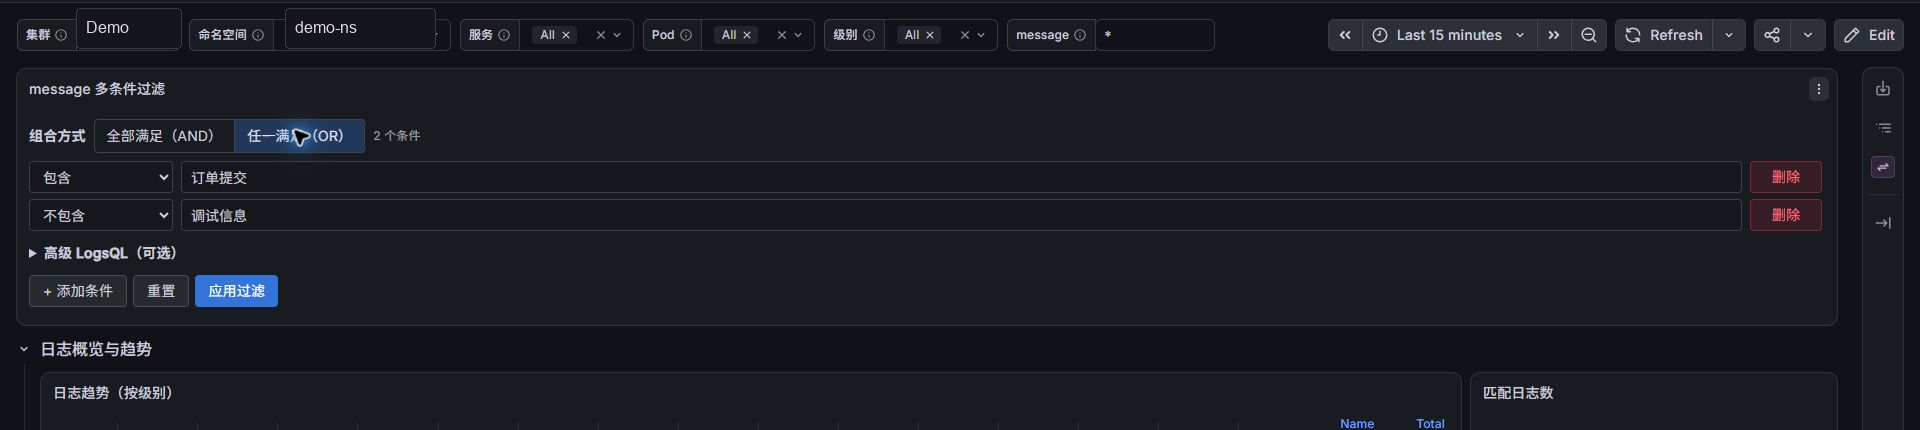
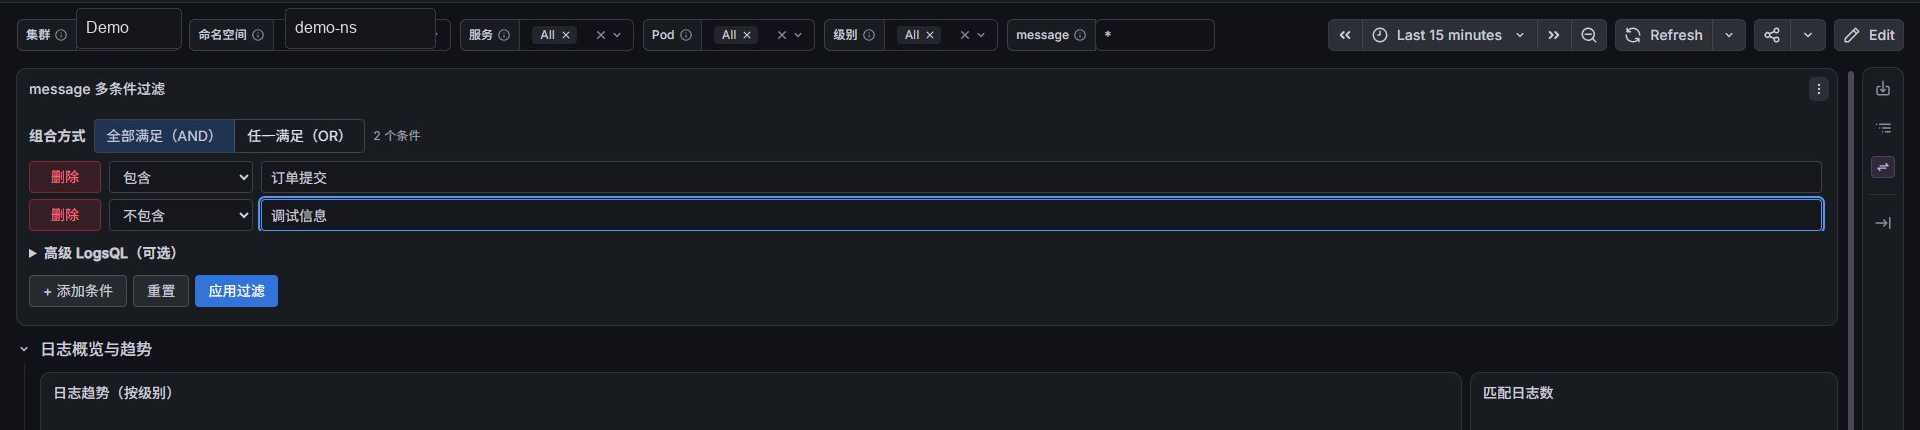
fix: refresh message filters against latest time range

Changed region(s): [[0.0, 0.2721, 0.9688, 0.5442], [0.6875, 0.9674, 0.75, 0.9977]]

diff --git a/docs/grafana-victorialogs-log-search-dashboard-guide.md b/docs/grafana-victorialogs-log-search-dashboard-guide.md
@@ -167,7 +167,7 @@ ${message_filter_expr:raw}
 
 ### 5.5 多条件 message 过滤器
 
-点击“添加条件”后，每行选择“包含”或“不包含”并输入内容；全局选择“全部满足（AND）”或“任一满足（OR）”。添加、删除和编辑只改变浏览器本地表单，不执行查询；点击“应用过滤”才生成表达式并更新 URL。零条件生成 `*`，普通条件软上限为 20。
+点击“添加条件”后，每行选择“包含”或“不包含”并输入内容；全局选择“全部满足（AND）”或“任一满足（OR）”。添加、删除和编辑只改变浏览器本地表单，不执行查询；点击“应用过滤”才生成表达式并更新 URL。对于 `now-15m` 到 `now` 等标准滑动窗口，应用前会把当前时间范围原地推进到最新时刻，再由筛选变量变化统一触发一轮查询，因此无需再点击顶部 Refresh；绝对时间范围保持原样，便于回看历史。零条件生成 `*`，普通条件软上限为 20。
 
 普通值会移除 NUL 和换行，转义反斜杠及双引号，并始终放入双引号。示例：
 
@@ -332,7 +332,7 @@ jq -n \
 
 1. 所有四个查询返回数据，无 `No data` 或 LogsQL 解析错误。
 2. 输入一个已知 message 片段，匹配数量下降且日志明细全部命中。
-3. 添加、删除和编辑多条件时，四个日志查询不应启动；点击“应用过滤”后才统一刷新。
+3. 添加、删除和编辑多条件时，四个日志查询不应启动；点击“应用过滤”后才统一刷新。相对时间范围下连续两次应用时，请求中的 `from`/`to` 必须向前推进，且每次仍只有四个面板各查询一次。
 4. 验证包含/不包含、AND/OR、2/5/10/20 条、中文、空格、引号、反斜杠和刷新恢复。
 5. 21 条被前端拒绝，高级表达式含管道时显示错误且不更新查询。
 6. 选择一个微服务，统计、趋势和明细同时收窄。
@@ -340,6 +340,8 @@ jq -n \
 8. 折叠 `日志概览与趋势`，两个统计和趋势图一起隐藏，但 `日志明细` 保持可见。
 9. 展开概览与趋势，级别颜色与第 4.4 节一致。
 10. Grafana 容器保持 `running/healthy`，`RestartCount=0`。
+
+当前单轮刷新兼容矩阵：Grafana 12.4.4 / 13.2.0，Business Text 6.3.0。两套环境在标准最近 15 分钟范围中连续 Apply 均为每次 4 个请求，URL 保持 `from=now-15m&to=now`。版本升级后此项必须作为阻断性回归测试，而不是只检查页面能否打开。
 
 ### 10.3 直接验证 LogsQL
 
@@ -401,6 +403,7 @@ _stream_fields=cluster,namespace,container,pod,level
 - Multi 变量的 All 必须使用自定义值 `*`，禁止枚举全部服务和 Pod。
 - 优先按流字段缩小范围，再执行 message word filter；高级正则放到 Explore。
 - 多条件只在“应用过滤”时刷新；不要把 `elementValueChanged` 改成自动更新 Dashboard 变量。
+- 标准滑动窗口不要在 `locationService.partial()` 后无条件调用 `context.grafana.refresh()`：这会产生两轮查询。当前实现先原地推进 Business Text 提供的 `timeRange`，再在原表达式与等价括号表达式之间切换，保证被查询引用的 `message_filter_expr` 每次都发生变化，因此只发起一轮最新时间查询。VictoriaLogs 已验证 `filter` 与 `(filter)`、`*` 与 `(*)` 语义等价。带日期取整等非标准相对范围无法安全平移，才使用 `context.grafana.refresh()` 兜底；绝对时间范围不会被改写。
 - 普通 message 条件最多 20 条，超出时先缩小 namespace、service 或 Pod 范围。
 - 不要把默认范围改为 1 小时或 24 小时。
 - 不要因为 UI 转圈就直接扩大 VictoriaLogs 并发；先区分浏览器取消、插件错误、反向代理和后端执行时间。

diff --git a/docs/ai-agent-operations-guide.md b/docs/ai-agent-operations-guide.md
@@ -88,6 +88,8 @@ node scripts/validate-vvg-message-filter.mjs
 
 当前 message 过滤器使用 Business Text 6.3.0。Business Forms 6.3.5 已实测不适合该交互，因为每个表单元素固定占一个 `InlineFieldRow`，无法实现操作符、输入框和删除按钮同一行。
 
+“应用过滤时刷新到最新相对时间”的单轮查询实现已在 Grafana 12.4.4 和 13.2.0、Business Text 6.3.0 上通过浏览器请求级验证。兼容结论仅覆盖这组版本；升级任一组件后，必须重新验证标准 `now-N` 到 `now` 范围每次 Apply/Reset 恰好产生 4 个 `/api/ds/query` 请求，且第二次 Apply 的 `to` 大于第一次。
+
 ### 多条件数据流
 
 ```text
@@ -182,6 +184,7 @@ docker compose up -d --no-deps --force-recreate grafana
 - 只读插件目录必须禁用 Grafana 默认预安装和自动更新，否则后台任务会报只读文件系统。
 - HTTP 200 的插件 `module.js` 仍可能因 React/Grafana 版本不兼容而执行失败；必须看 Chrome 控制台。
 - Grafana API 返回的 Dashboard `version` 是数据库修订计数，不等同于源 JSON 的 `version`。
+- Business Text 的“应用过滤”在标准 `now-N` 到 `now` 滑动窗口中，先原地推进 `context.grafana.timeRange`，再让 `message_filter_expr` 在原表达式和等价括号表达式之间切换，以保证单次变量刷新。不要在这条路径追加 `context.grafana.refresh()`，否则四个日志面板会产生两轮查询。带取整的相对时间使用官方刷新兜底；绝对时间范围保持不变。Grafana 或 Business Text 升级后必须重新做请求数量、时间戳和括号 LogsQL 验收。
 - 远端缺少 Python 不代表 JSON 无法验证；本地解析后比较 SHA 即可。
 - 浏览器中的“转圈”不等于 VictoriaLogs 并发不足；先看请求状态和后端耗时。
 
